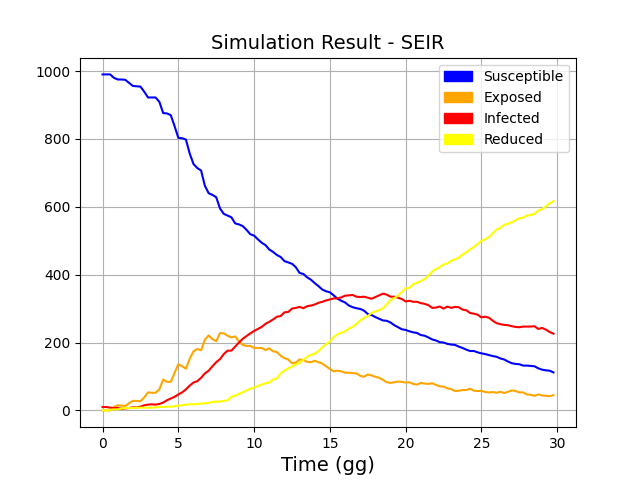
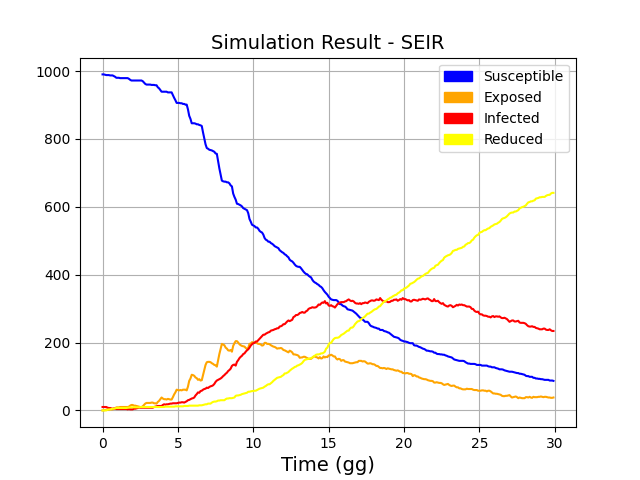
Modifica creazione grafi
- Aggiunto grafo trasporto e modificato suddivisione step

diff --git a/epidemic_sim.py b/epidemic_sim.py
@@ -22,6 +22,7 @@ fr_inf = 0  # number of initial infected
 step_p_day = 0  # number of step per day
 n_step_home = 0  # number of step at home
 n_step_work = 0  # number of step at work/school
+n_step_transp = 0 # number of step on public transport
 fr_station_user = 0  # fraction of people that use train station
 initial_seed = 0
 rg1 = None
@@ -37,6 +38,8 @@ min_school_size = 0
 max_school_size = 0
 min_office_size = 0
 max_office_size = 0
+min_transp_size = 0
+max_transp_size = 0
 
 s_list = []  # list of susceptible nodes
 e_list = []  # list of exposed nodes
@@ -309,6 +312,16 @@ def create_families_network():
     return gm.nx.union_all(temp_graphs)
 
 
+def create_transport_network():
+    rg1.shuffle(people_tot)
+    transp_part = list(generate_partitions(people_tot, min_transp_size, max_transp_size))
+    # print("families: " + str(families))
+    temp_graphs = []
+    for bus in transp_part:
+        temp_graphs.append(gm.create_public_transport_graph(bus))
+    return gm.nx.union_all(temp_graphs)
+
+
 def create_school_work_network():
     rg1.shuffle(people_tot)
     office_partitions = list(generate_partitions(people_tot[:n_stud], min_office_size, max_office_size))
@@ -323,11 +336,14 @@ def create_school_work_network():
         temp_graphs.append(gm.create_school_graph(school, 0.3))
     return gm.nx.union_all(temp_graphs)
 
+
 def set_random_stream():
     if initial_seed != 0:
         return random.Random(initial_seed)
     else:
-       return random.Random()
+        return random.Random()
+
+
 def initialize():
     global clock
     global fr_inf
@@ -390,17 +406,24 @@ def simulate():
     start_time = time.time()
     fam_graph = create_families_network()
     office_school_graph = create_school_work_network()
+    transp_graph = create_transport_network()
     end_time = time.time()
     duration = round((end_time - start_time), 3)
     print("Duration Graph Creation: " + str(duration) + " Seconds")
     start_time = time.time()
     for day in range(0, n_days):
         print("day " + str(day))
-        # SIMULAZIONE PRIMO CICLO
-        sim_SEIR(fam_graph, day, day + n_step_home)
-
-        # SIMULAZIONE SECONDO CICLO
-        sim_SEIR(office_school_graph, day + n_step_home, day + n_step_home + n_step_work)
+        # HOME
+        end_1 = day + n_step_home
+        sim_SEIR(fam_graph, day, end_1)
+        # TRANSP
+        end_2 = int(end_1 + (n_step_transp/2))
+        sim_SEIR(transp_graph, end_1, end_2 )
+        # WORK
+        end_3 = end_2 + n_step_work
+        sim_SEIR(office_school_graph, end_2, end_3)
+        # WORK
+        sim_SEIR(transp_graph,end_3, int(end_3+(n_step_transp/2)))
 
     end_time = time.time()
     duration = round((end_time - start_time), 3)
@@ -767,10 +790,13 @@ def parse_input_file():
     global max_school_size
     global min_office_size
     global max_office_size
+    global min_transp_size
+    global max_transp_size
 
     global step_p_day
     global n_step_home
     global n_step_work
+    global n_step_transp
     global n_days
     global initial_seed
 
@@ -781,6 +807,7 @@ def parse_input_file():
         # step_p_day = data["step_p_day"]
         n_step_home = data["n_step_home"]
         n_step_work = data["n_step_work"]
+        n_step_transp = data["n_step_transp"]
         n_stud = int(data["fr_students"] * n)
         n_employs = int(data["fr_employees"] * n)
         min_family_size = data["min_family_size"]
@@ -789,8 +816,10 @@ def parse_input_file():
         max_school_size = data["max_school_size"]
         min_office_size = data["min_office_size"]
         max_office_size = data["max_office_size"]
+        min_transp_size = data["min_transp_size"]
+        max_transp_size = data["max_transp_size"]
         initial_seed = data["seed"]
-        step_p_day = n_step_home + n_step_work
+        step_p_day = n_step_home + n_step_work + n_step_transp
 
         print("\nGraph and Time Parameters: \n")
         print("Number of Nodes: .......... " + str(n))
